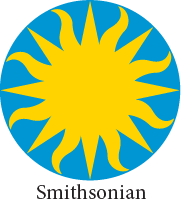
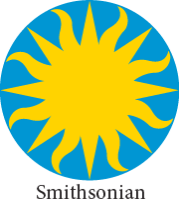
Updated the Workflow page to pertain to SI pipeline
Also added a white background to SI logo

diff --git a/Docs/workflow.rst b/Docs/workflow.rst
@@ -1,13 +1,13 @@
 Workflow
 ========
 
-Detailed workflow for the Barcode of Wildlife Project (BWP)
------------------------------------------------------------
+Detailed workflow for the SI Barcode Network pipeline
+-----------------------------------------------------
 
-Here is the beginning (species selection) to end (publication to GenBank) workflow that BWP uses for the generation of high-quality DNA barcode records.
+Here is the beginning (species selection) to end (publication to GenBank) workflow that the SI Barcode Network uses for the generation of high-quality DNA barcode records.
 
-.. image:: /images/bwp_workflow.png
+.. image:: /images/si_barcoding_pipeline.png
   :align: center
-  :target: /en/latest/_images/bwp_workflow.png  
+  :target: /en/latest/_images/si_barcoding_pipeline.png  
 
 The workflow above is annotated on the right side with the names of the software systems that handle each step of the process. A more detailed explanation of each component is found in the next page, :ref:`software-components-link`.
